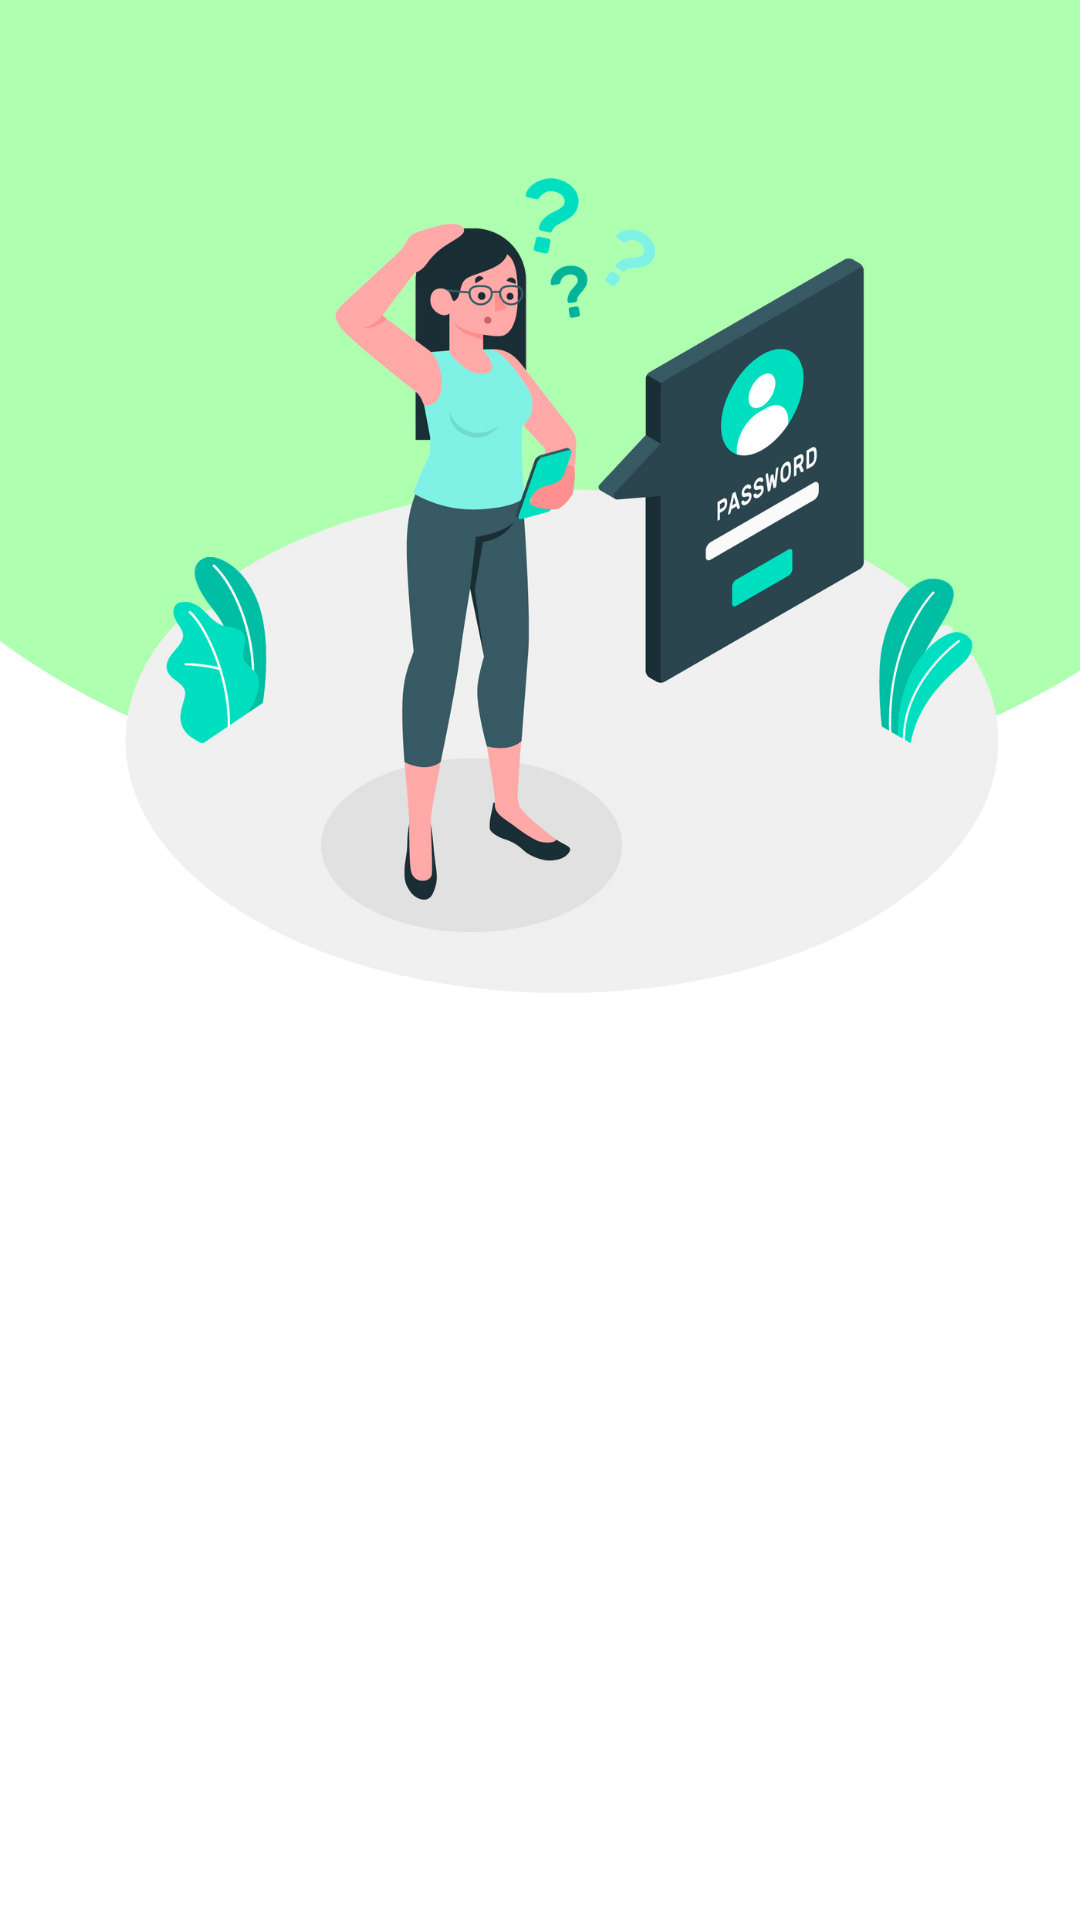
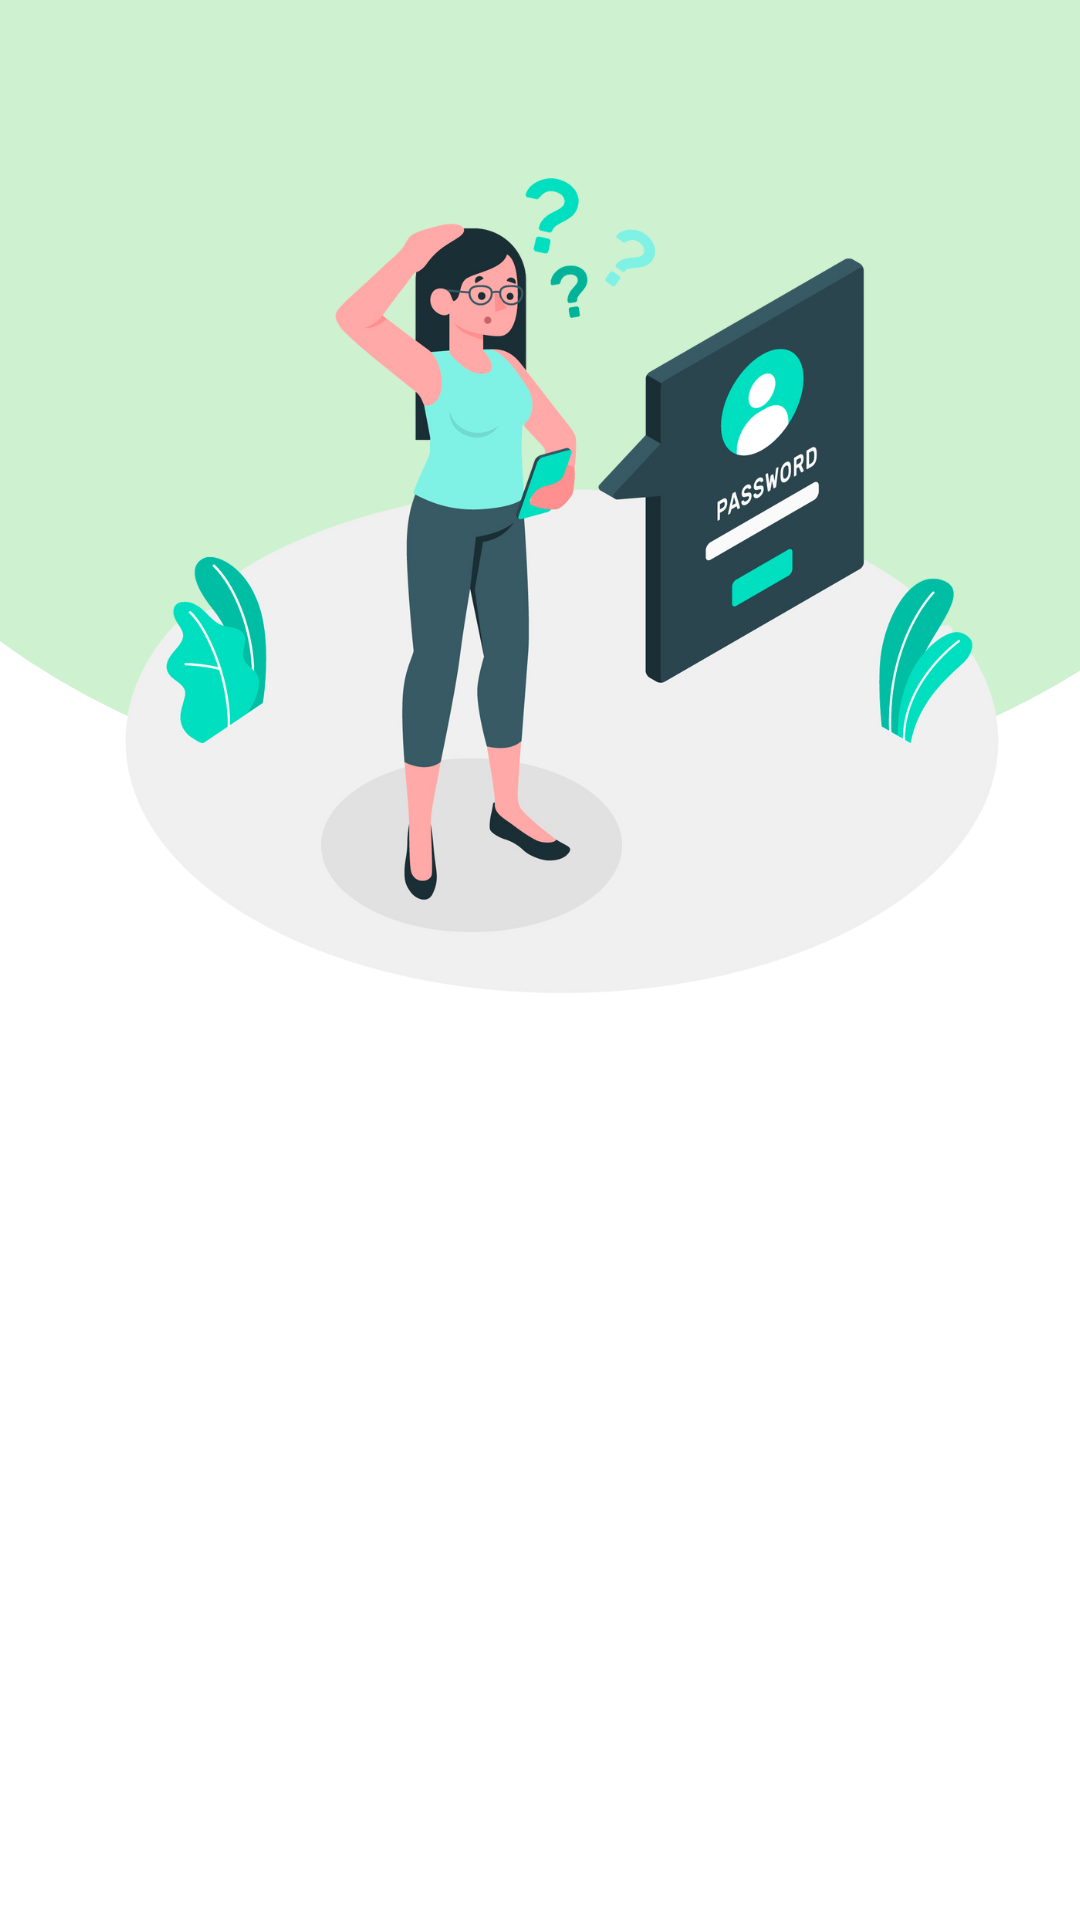
fix color

Changed region(s): [[0.0, 0.0, 1.0, 0.375]]

diff --git a/Client/Mobile_app/src/components/Profile/profile.js b/Client/Mobile_app/src/components/Profile/profile.js
@@ -107,7 +107,9 @@ const Profile = () => {
       const handleAboutUs = () => {
         navigation.navigate('AboutUs', {animation: false});
       }
-                
+      const handleResetPass = () => {
+        navigation.navigate('ResetPass', {animation: false});
+      }    
 return (
 
   <SafeAreaView  style={{ flex: 1, backgroundColor:  'white' }}>
@@ -171,7 +173,7 @@ return (
           <ChildSectionContainer>
               <ChildSectionIcon source={require('../../assets/changepw.png')} tintColor={'#1A5D1A'} />
                 <ChildSectionText>Đổi mật khẩu</ChildSectionText>
-                <ChildSectionButtonContainer>
+                <ChildSectionButtonContainer  onPress={handleResetPass}>
                   <ChildSectionButton source={require('../../assets/more.png')} tintColor={'#1A5D1A'} />
                 </ChildSectionButtonContainer>    
           </ChildSectionContainer>

diff --git a/Client/Mobile_app/App.js b/Client/Mobile_app/App.js
@@ -7,6 +7,7 @@ import 'react-native-gesture-handler';
 import { NavigationContainer } from '@react-navigation/native';
 import Schedule from './src/components/Schedule/schedule';
 import ResetPass from './src/components/Profile/Reset Pass/resetpass';
+import CameraScreen from './src/components/Camera/camera';
 
 class App extends Component
 {
@@ -30,7 +31,7 @@ export default App;
 // return (
 // <Provider store={store}>
 //  <NavigationContainer>
-//     <ResetPass />
+//     <CameraScreen />
 //    </NavigationContainer>
 //   </Provider>
 // );

diff --git a/Client/Mobile_app/src/components/Schedule/schedule.js b/Client/Mobile_app/src/components/Schedule/schedule.js
@@ -357,7 +357,7 @@ const Schedule = () => {
                                   setSelectedFrequency(item.value); // Cập nhật giá trị đã chọn cho dropdown "Ngày", "Tuần", "Tháng"
                                    }}
                               />
-                        </View>
+                        </View> 
                 </EachContainer>
                 <WorkContainer>
                   <TextDay>Việc</TextDay>

diff --git a/Client/Mobile_app/src/api/index.js b/Client/Mobile_app/src/api/index.js
@@ -1,2 +1,2 @@
-export const IPServer="http://192.168.100.154:8080/"
+export const IPServer="http://10.0.109.221:8080/"
 
